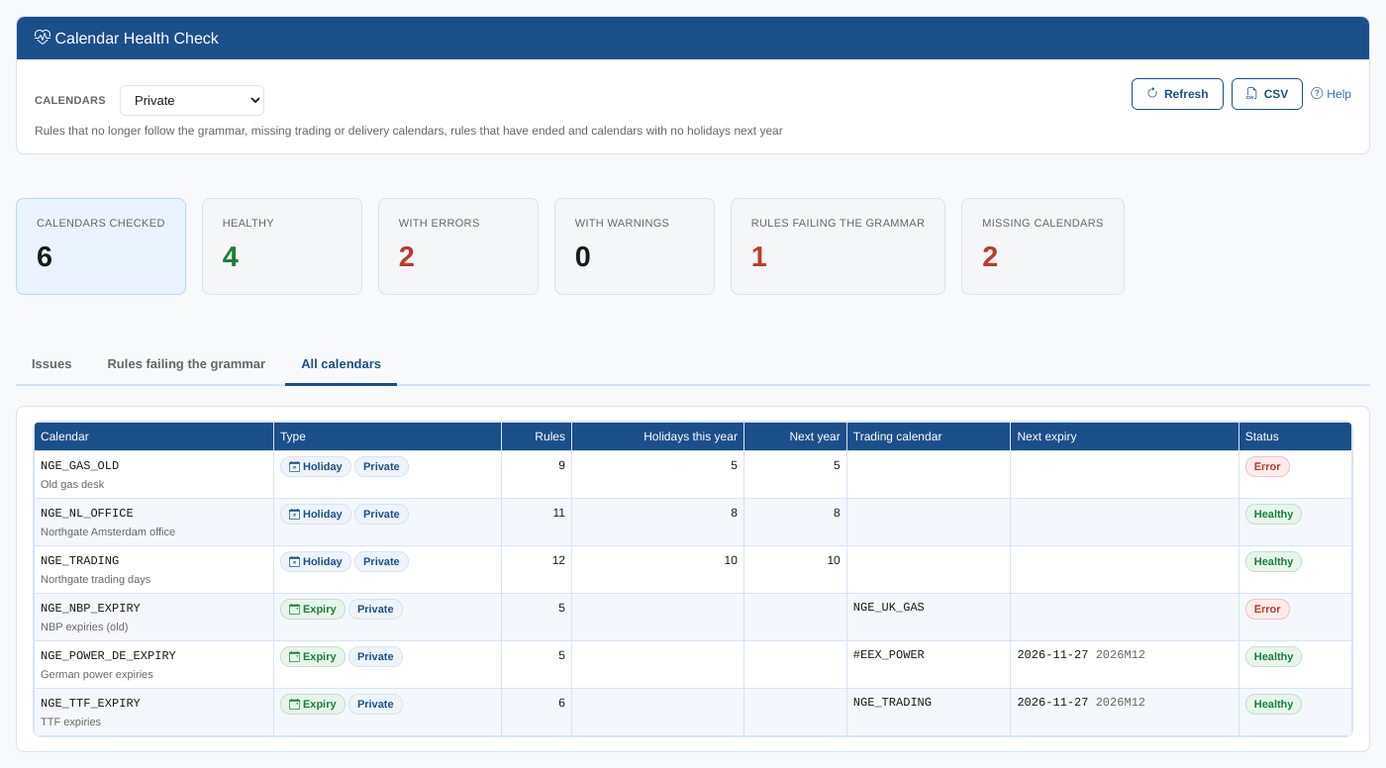
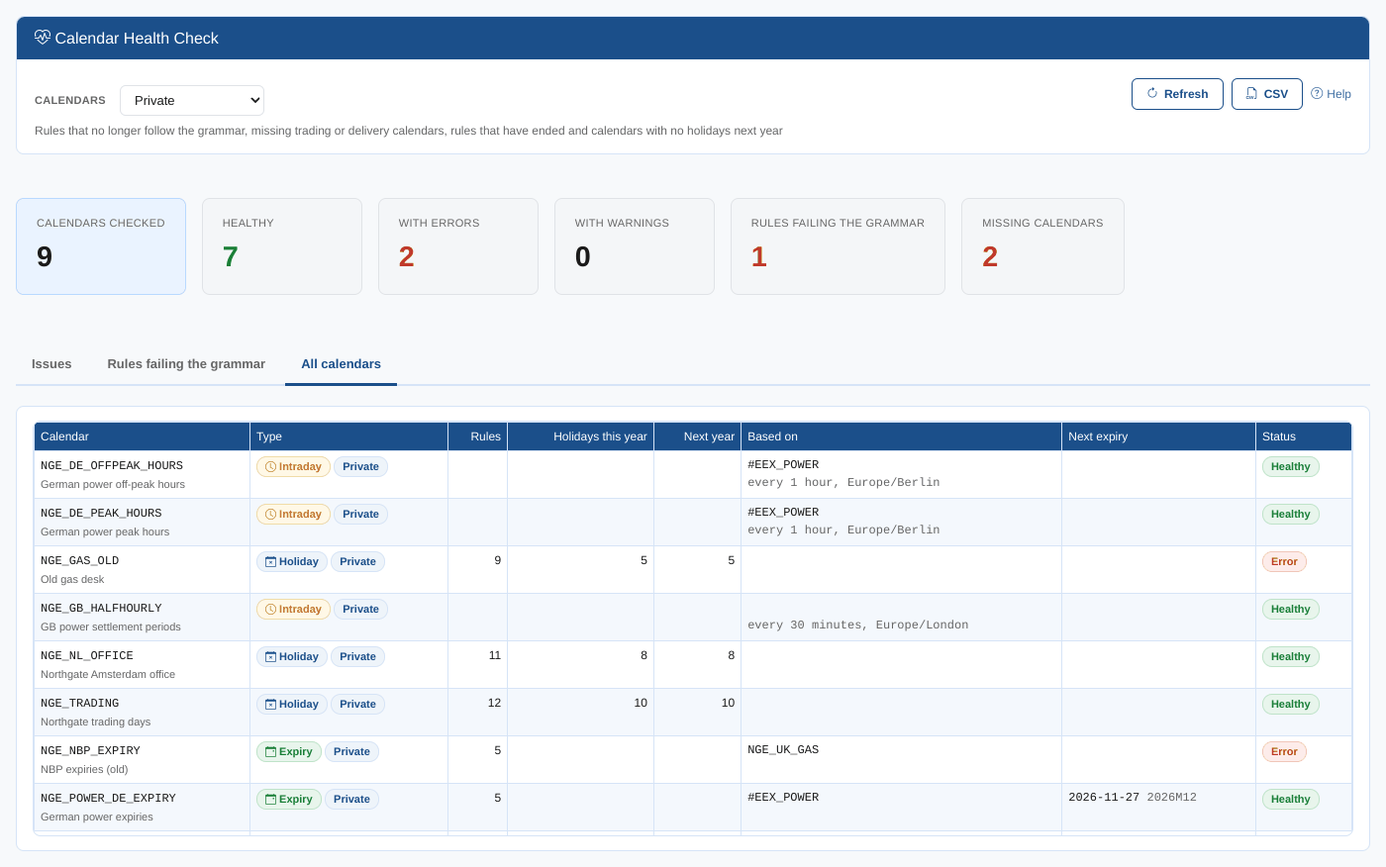
Calendar manager changes

diff --git a/docs/extensions/calendar-manager/07-reference.md b/docs/extensions/calendar-manager/07-reference.md
@@ -14,7 +14,7 @@ tags: [extension, calendar manager, reference, api]
 
 | Kind | Service | Sources | Notes |
 |-|-|-|-|
-| Holiday and other calendars | `calendar` | `private`, `public` | Versioned. A holiday calendar keeps its rules in `calendar.rules`, each with its plain English text in `code`. |
+| Holiday, intraday and other calendars | `calendar` | `private`, `public` | Versioned. A holiday calendar keeps its rules in `calendar.rules`, each with its plain English text in `code`. An intraday calendar keeps its definition in `calendar`. |
 | Expiry calendars | `expiry` | `private`, `public` | Versioned. The rules are in `calendar.rules.map`, by tenor, each with its plain English text in `rule.code`. |
 
 Every save makes a new version: `SERVICE/v1/SOURCE/ID/*` lists the versions and `SERVICE/v1/SOURCE/ID/N` reads version N.
@@ -45,6 +45,42 @@ Every save makes a new version: `SERVICE/v1/SOURCE/ID/*` lists the versions and 
 | `rules` | The rules: a string is a plain English rule; an object is a stored rule (such as an embedded calendar) and is kept as it is |
 
 Every plain English rule must follow the grammar, or nothing is saved and the error names each rule that does not.
+
+### Intraday calendar
+
+`POST calendar/v1/private`
+
+```json
+{
+  "_id": "NGE_DE_PEAK_HOURS",
+  "_type": "VarCalendar",
+  "name": "German power peak hours",
+  "description": "Hours 08:00 to 20:00 on EEX trading days",
+  "calendar": {
+    "_type": "IntradayCalendar",
+    "period": 3600000,
+    "timezoneCode": "Europe/Berlin",
+    "holidayCalendarCode": "#EEX_POWER",
+    "useHolidays": false,
+    "withoutHours": [0, 1, 2, 3, 4, 5, 6, 7, 20, 21, 22, 23]
+  }
+}
+```
+
+| Field | Description |
+|-|-|
+| `calendar._type` | `IntradayCalendar` (`BlockCalendar` and `HourBlockCalendar` are intraday calendars too, and are kept as they are) |
+| `period` | The interval in milliseconds: at least one minute, at most 12 hours, and it must divide a day exactly |
+| `timezoneCode` | The time zone of the hours. Defaults to `UTC`. |
+| `holidayCalendarCode` | Optional. The calendar that decides which days are open. It must exist and must not be an intraday calendar. |
+| `useHolidays` | `false`: days the holiday calendar closes have no intervals. `true`: those days keep every interval (off-peak). |
+| `withoutHours` | The hours of the day (0 to 23, in the time zone) to leave out. At least one hour must be kept. |
+
+The calendar's own `_id` and `_name` are set from the record's `_id` and `name`. A definition that breaks one of these rules is refused with the reason.
+
+:::note
+Until this release, the holiday calendar of a stored intraday calendar was not looked up when the calendar was read, so every day was open whatever `holidayCalendarCode` said. It is now applied. A calendar whose holiday calendar is `DAILY` (every day) does not change; check any other stored intraday calendar with a holiday calendar before the release, because its indexes on weekends and holidays will change.
+:::
 
 ### Expiry calendar
 
@@ -82,6 +118,9 @@ Every plain English rule must follow the grammar, or nothing is saved and the er
 | `POST expiry/v1/private?_function=trace` | An expiry calendar, `ondate`, `contract` | The contract's dates, and the steps of its expiry, delivery start and delivery end rules |
 | `GET calendar/v1/SOURCE?_function=health&_id=A,B` | Calendar ids | A health check per calendar |
 | `GET expiry/v1/SOURCE?_function=health&_id=A,B` | Expiry calendar ids | A health check per expiry calendar |
+| `GET calendar/v1/private?_function=access` (or `expiry`) | | `admin`: the user is an OpenDataDSL user; `publicEdit`: the user can create, change and delete public calendars |
+| `POST calendar/v1/private?_function=test` | A calendar that is not a holiday calendar, as for saving (`_id`, `name`, `calendar`), plus `start` and `end` (days in its time zone; default the next 7 days, at most 92, for an intraday calendar) | `valid`, `problems`, `total`, `days` (one per day: `count`, `first`, `last`, `hours`, `holiday`, `dayHours`), `intervals` (at most 3,000: `local`, `offset`, `utc`) |
+| `GET calendar/v1/SOURCE/ID?_function=test` on a calendar that is not a holiday calendar | `start`, `end` | The same, for the stored calendar |
 
 ### A rule check
 
@@ -102,6 +141,19 @@ Every plain English rule must follow the grammar, or nothing is saved and the er
 | `periodStart`, `expiry`, `deliveryStart`, `deliveryEnd` | The contract's dates |
 | `expiryRule`, `deliveryStartRule`, `deliveryEndRule` | Each with `rule`, `ruleNumber` and `steps`: `step` (the text of the step), `date` (after it) and `note` |
 | `notes` | What is not ruled, or could not be worked out |
+
+---
+
+## Who can change public calendars
+
+Public calendars and expiry calendars are saved with `POST calendar/v1/public` and `POST expiry/v1/public` (the Calendar Manager uses the source that matches the id: `public` for an id starting with `#`), and deleted with `DELETE .../public/ID`. The platform allows it for:
+
+| User | Why |
+|-|-|
+| Users of the OpenDataDSL tenant | The built-in policies `ManagePublic-calendar-Built-In` and `ManagePublic-expiry-Built-In`: create, read, update and delete on the public calendar and expiry services |
+| Users with the admin role | The built-in policy `ManageAllPublicData-Built-In`, which covers every public service |
+
+Everyone else can only read public calendars: a save or delete is refused.
 
 ---
 
@@ -126,5 +178,8 @@ Every plain English rule must follow the grammar, or nothing is saved and the er
 | *This expiry calendar has no rule for ...* | No rule covers that tenor: add a rule with no `for`, or one `for` that tenor. |
 | A rule gives no holidays in the test range | Its `from` and `to` years are outside the range, or another rule gives the same date. |
 | A holiday is marked *on a closed day* | It falls on a weekend. Add an `on Saturday shift` or `on Sunday shift` option if a substitute day is needed. |
-| Save is not shown | The calendar is public, financial or has no rules. Use **Save as copy** for a public calendar. |
-| *Request failed (403)* when saving | Your security policies do not allow you to update calendars. |
+| Save is not shown | The calendar is public, financial, or another calendar with nothing to edit. Use **Save as copy** for a public calendar. |
+| *The interval must divide a day exactly* | An intraday interval such as 7 minutes leaves part of a day over. Choose one from the list. |
+| *... is not a time zone* | Use a time zone name such as `Europe/Paris`, not an abbreviation such as CET. |
+| An intraday calendar has intervals on weekends | It has no holiday calendar, or its holidays setting is **Every interval of the day (off-peak)**. |
+| *Request failed (403)* when saving | Your security policies do not allow you to update calendars, or the calendar is public and you are not an OpenDataDSL user. |

diff --git a/docs/extensions/calendar-manager/04b-intraday.md b/docs/extensions/calendar-manager/04b-intraday.md
@@ -1,0 +1,104 @@
+---
+title: Intraday calendars
+description: How to create, edit and test intraday calendars in the Calendar Manager, with their interval, time zone, the hours they keep and their holiday calendar
+slug: /extensions/calendar-manager/intraday
+sidebar_position: 4.5
+tags: [extension, calendar manager, intraday, hourly, peak, off-peak]
+---
+
+# Intraday calendars
+
+Hourly, half-hourly and quarter-hourly data follows an **intraday calendar**: day-ahead power prices by hour, GB settlement periods, peak and off-peak block hours. An intraday calendar has no rules. It is every interval of the day, in its own time zone, less the hours you leave out, on the days its holiday calendar allows.
+
+At Northgate Energy, Tom Clarke looks after the German power hour calendars: `NGE_DE_PEAK_HOURS` (08:00 to 20:00, Berlin time, on EEX trading days) and `NGE_DE_OFFPEAK_HOURS` (the other hours, and the whole of weekends and EEX holidays).
+
+![The Calendar Manager with the German power peak hours calendar open: its interval, time zone, hours and holiday calendar on the left, and the days of Christmas week on the right](/img/extensions/calendar-manager/intraday-editor.png)
+
+---
+
+## Creating an intraday calendar
+
+Select **New intraday calendar** in the header. A new calendar starts as every hour of every day in UK time. Give it an **ID**, a **Name** and a **Description**, set the fields below and select **Save**.
+
+To open one, click it on the **Calendars** tab: choose **Intraday calendars** in **Type** to list only them.
+
+---
+
+## The definition
+
+![The definition of the peak hours calendar: hourly, Europe/Berlin, the hours 08 to 19 kept, and the EEX power holiday calendar](/img/extensions/calendar-manager/intraday-form.png)
+
+| Field | What it does |
+|-|-|
+| **Interval** | The length of each interval: 1, 5, 10, 15 or 30 minutes, or 1, 2, 3, 4, 6 or 12 hours. It must divide a day exactly. |
+| **Time zone** | The time zone the hours are in, such as `Europe/Berlin` or `Europe/London`. Pick one from the list or type its name. The hours follow the clocks, so a day has 23 or 25 hours when they change. |
+| **Holiday calendar** | Optional. The calendar that decides which days are open, such as `#EEX_POWER` or `#UKBANKHOLIDAYS`. Leave it empty for every day. |
+| **On holidays and closed days** | **No intervals (peak, base)**: the days the holiday calendar closes (weekends and holidays) have no intervals. **Every interval of the day (off-peak)**: those days keep every interval, whatever the hours below. |
+| **Hours kept** | Click an hour to keep it or leave it out. The hours are in the calendar's time zone: `08` is 08:00 to 09:00. The text under the hours says which ones are kept. |
+
+The buttons under the hours set common blocks:
+
+| Button | Hours kept |
+|-|-|
+| **All hours (base)** | 00:00 to 24:00 |
+| **Peak 08-20** | 08:00 to 20:00 |
+| **Off-peak (not 08-20)** | 00:00 to 08:00 and 20:00 to 24:00 |
+| **Off-peak 1 (00-08)** | 00:00 to 08:00 |
+| **Off-peak 2 (20-24)** | 20:00 to 24:00 |
+
+:::tip
+For an off-peak calendar, keep the off-peak hours, set the holiday calendar and choose **Every interval of the day (off-peak)**: weekends and holidays are then off-peak all day, as the market defines them.
+:::
+
+The platform checks the definition when you test and when you save: an interval that does not divide a day, a time zone it does not know, a holiday calendar that does not exist (or is itself intraday) and a calendar with every hour left out are refused, with the reason.
+
+---
+
+## Testing an intraday calendar
+
+The **Test** panel works out the intervals with the definition as it is in the editor, saved or not. **From** and **To** are days in the calendar's time zone, up to 92 days. It starts with the next seven days.
+
+| Card | What it shows |
+|-|-|
+| **Intervals** | Intervals in the range |
+| **Days with intervals** | Days that have at least one interval |
+| **Closed days** | Days the holiday calendar closes. For an off-peak calendar the card is **Whole days (closed days)**: those days are kept whole. |
+| **Clock changes** | Days of 23 or 25 hours in the calendar's time zone |
+
+### Days
+
+One row per day: the number of intervals, when the first starts and when the last ends, with **closed day** (or **closed day: whole day kept**) and **23 hour day** or **25 hour day** marks. In the example, 24 to 27 December and New Year's Eve are closed on `#EEX_POWER`, so the peak calendar has no hours on those days.
+
+![The days of Christmas week for the peak hours calendar: twelve hours on open days, none on closed days](/img/extensions/calendar-manager/intraday-days.png)
+
+### Hours
+
+A grid of the days and the 24 hours of each, in the calendar's time zone: blue for the hours with intervals, purple for a closed day kept whole.
+
+![The hours grid of the peak calendar over Christmas](/img/extensions/calendar-manager/intraday-hours.png)
+
+The off-peak calendar over the same days keeps the night hours on open days, and every hour of the closed days:
+
+![The hours grid of the off-peak calendar, with the closed days kept whole](/img/extensions/calendar-manager/intraday-offpeak-hours.png)
+
+### Intervals
+
+Each interval: its local time, its offset from UTC and the time in UTC, which is how a timeseries on the calendar stores its index. At most 3,000 are listed; **CSV** downloads them.
+
+### Changes
+
+For a saved calendar: the definition against the saved version, line by line, then the days whose intervals change in the test range. At Northgate Energy, Tom tries starting peak at 07:00: the tab shows one more hour on each open day before he decides.
+
+![The Changes tab after keeping hour 07: the definition change, and thirteen hours instead of twelve on each open day](/img/extensions/calendar-manager/intraday-changes.png)
+
+---
+
+## Public intraday calendars
+
+Public intraday calendars, such as `#EPEX_DA_OFFPEAK2_CALENDAR` (the EPEX day-ahead Offpeak-2 block, 20:00 to 24:00 Paris time), can be tested but not changed. Use **Save as copy** to make a private version.
+
+---
+
+## History
+
+**History** compares the definition of any version with the editor, and **Load into the editor** puts it back, as for other calendars. See [Editing rules](/docs/extensions/calendar-manager/editing#history).

diff --git a/docs/extensions/calendar-manager/02-managing.md b/docs/extensions/calendar-manager/02-managing.md
@@ -21,7 +21,7 @@ The tab lists every holiday calendar, expiry calendar and other calendar you can
 | Control | What it does |
 |-|-|
 | **Search** | Shows the calendars whose id, name or description contains the words you type |
-| **Type** | All calendars, holiday calendars, expiry calendars or other calendars (business, daily, monthly...) |
+| **Type** | All calendars, holiday calendars, expiry calendars, intraday calendars or other calendars (business, daily, monthly...) |
 | **Source** | Private and public, private only or public only |
 | **Sort by** | ID, name, or the last changed first |
 | **Export** | Downloads the calendars that match the filters as CSV |
@@ -31,7 +31,7 @@ The tab lists every holiday calendar, expiry calendar and other calendar you can
 
 | Card | What it shows |
 |-|-|
-| **Holiday calendars**, **Expiry calendars**, **Other calendars** | How many of each you can read |
+| **Holiday calendars**, **Expiry calendars**, **Intraday calendars**, **Other calendars** | How many of each you can read |
 | **Private** | Your company's own calendars, which you can change |
 | **Public** | Calendars maintained by OpenDataDSL |
 
@@ -41,10 +41,10 @@ The tab lists every holiday calendar, expiry calendar and other calendar you can
 |-|-|
 | **ID** | The calendar id. Public ids start with `#`. |
 | **Name** | The name, with the description under it |
-| **Type** | **Holiday**, **Expiry**, or the kind of other calendar (Business, Daily...) |
+| **Type** | **Holiday**, **Expiry**, **Intraday**, or the kind of other calendar (Business, Daily...) |
 | **Source** | **Private** or **Public** |
 | **Rules** | How many rules an expiry calendar has (the calendar lists do not include the rules of holiday calendars: open one to see them) |
-| **Trading calendar** | For an expiry calendar, the calendar its rules move on, and the delivery calendar when it is different |
+| **Based on** | For an expiry calendar, the calendar its rules move on, and the delivery calendar when it is different. For an intraday calendar, its holiday calendar, interval and time zone. |
 | **Last changed** | When the current version was saved, and by whom |
 | **Version** | The current version number |
 
@@ -59,20 +59,22 @@ When you open a calendar, the editor shows its rules, checks each one against th
 | Calendar | What you can do |
 |-|-|
 | A private holiday or expiry calendar | Edit, test, save, save as a copy, delete, history |
-| A public calendar | Test, save as a copy, history. A note explains it is maintained by OpenDataDSL. |
+| A public calendar | Test, save as a copy, history. A note explains it is maintained by OpenDataDSL. OpenDataDSL users can also edit, save and delete it: see [Public calendars](#public-calendars). |
 | A financial (FX) expiry calendar | Test only: it is defined by cross and base calendars, not rules |
+| A private intraday calendar | Edit its interval, time zone, hours and holiday calendar, test, save, save as a copy, delete, history. See [Intraday calendars](/docs/extensions/calendar-manager/intraday). |
 | Another calendar (business, daily...) | See its dates and definition |
 
 ---
 
 ## Creating a calendar
 
-Select **New holiday calendar** or **New expiry calendar** in the header.
+Select **New holiday calendar**, **New expiry calendar** or **New intraday calendar** in the header.
 
 - A new holiday calendar starts with `Every Saturday` and `Every Sunday`.
 - A new expiry calendar starts with a common month rule: `go to the end of the previous month then go back 1 days using calendar`. Choose its **Trading calendar** before you test it.
+- A new intraday calendar starts as every hour of every day in UK time.
 
-Give it an **ID** (letters, digits, dots, underscores and dashes; no spaces and no `#`, which is for public calendars), a **Name** and a **Description**, write the rules and select **Save**. See [Editing rules](/docs/extensions/calendar-manager/editing).
+Give it an **ID** (letters, digits, dots, underscores and dashes; no spaces and no `#`, which is for public calendars and only OpenDataDSL users can use), a **Name** and a **Description**, write the rules and select **Save**. See [Editing rules](/docs/extensions/calendar-manager/editing).
 
 At Northgate Energy, Priya creates `NGE_TRADING` with the weekend rules, the UK bank holidays and two office closures:
 
@@ -98,6 +100,22 @@ Last Monday in August named 'Summer Bank Holiday'
 Select **Save as copy** in the editor, or the copy button in the list. The copy is a new, unsaved private calendar with the same rules, an id ending in `_COPY` and the name followed by `(copy)`. Change the id if you want, then select **Save**.
 
 This is how you change a public calendar: copy it, change the copy, and point your timeseries, curves or expiry calendars at the copy.
+
+---
+
+## Public calendars
+
+Public calendars are maintained by OpenDataDSL. Users of the OpenDataDSL tenant (and users with the platform's admin role, who manage all public data) can change them in the Calendar Manager like a private calendar: edit, test, **Save**, **Delete** and **History** all work, in the public calendars. For everyone else a public calendar is read only.
+
+A note at the top of the editor warns that every tenant uses the calendar, so a save applies to every timeseries, curve and expiry calendar on it, in every tenant. **Save** and **Delete** ask you to confirm for a public calendar.
+
+![The UK bank holiday calendar open for an OpenDataDSL user, with the warning that every tenant uses it](/img/extensions/calendar-manager/public-edit.png)
+
+To create a public calendar, start a new calendar and give it an id that starts with `#`, such as `#EPEX_DA_PEAK_HOURS`: the title shows **Public** and the calendar is saved in the public calendars. An id cannot move between private and public once saved; copy the calendar instead.
+
+:::caution
+Test a change to a public calendar before you save it. The **Changes** tab shows exactly which dates or contracts move, and the [Calendar Usage Report](/docs/public/insights/calendar-usage) shows what uses the calendar.
+:::
 
 ---
 

diff --git a/docs/extensions/calendar-manager/01-overview.md b/docs/extensions/calendar-manager/01-overview.md
@@ -31,9 +31,10 @@ Throughout these pages we follow Northgate Energy, a fictional gas and power tra
 |-|-|
 | **Holiday calendar** | A daily calendar with holiday rules. Each rule gives one holiday a year (such as Christmas Day) or a weekly closure (every Saturday). Its business days are the days no rule closes. |
 | **Expiry calendar** | Rules that work out, for each contract (a month, quarter, season, year, week or day), its expiry (the last trading day) and optionally when its delivery starts and ends. Its rules move on a **trading calendar**, and its delivery rules on a **delivery calendar**. |
+| **Intraday calendar** | Hourly, half-hourly or quarter-hourly intervals in a time zone, with the hours of the day it keeps (such as peak, 08:00 to 20:00) and an optional holiday calendar for the days it is open. It has no rules. |
 | **Other calendars** | Business, daily, monthly and other calendars with no rules. The Calendar Manager lists them and shows their dates, but there is nothing to edit. |
 | **Rule** | One line of plain English. The platform reads it with a grammar (an ANTLR 4 grammar for holiday rules and one for expiry rules). A rule that does not follow the grammar is marked in red, where the mistake is. |
-| **Private and public calendars** | Private calendars belong to your company and you can change them. Public calendars, whose ids start with `#`, are maintained by OpenDataDSL: you can test them and copy them, but not change them. |
+| **Private and public calendars** | Private calendars belong to your company and you can change them. Public calendars, whose ids start with `#`, are maintained by OpenDataDSL and used by every tenant: you can test them and copy them. Only OpenDataDSL users can change them. |
 | **Test** | Working out the dates a calendar gives, with your unsaved changes, before you save: holidays and business days, or expiries and delivery periods. |
 | **Version** | Each save makes a new version of the calendar, with who saved it and when. |
 
@@ -44,7 +45,7 @@ Throughout these pages we follow Northgate Energy, a fictional gas and power tra
 | Screen | Where | What it does |
 |-|-|-|
 | **Calendars** tab | **Manage**, **Calendars** | Every calendar you can read, private and public, with filters, counts and CSV export |
-| **Editor** tab | Same screen, with a calendar open | The rules, checked as you type, with suggestions, the rule builder and edit as text; save, save as a copy, delete and history |
+| **Editor** tab | Same screen, with a calendar open | The rules, checked as you type, with suggestions, the rule builder and edit as text (or, for an intraday calendar, its interval, time zone, hours and holiday calendar); save, save as a copy, delete and history |
 | **Test** panel | Next to the rules | Holidays, a year view, business days, date checks and changes for a holiday calendar; expiries, a year view, a step by step trace and changes for an expiry calendar |
 | **Syntax guide** tab | Same screen | The rule syntax with examples you can add to the calendar, and the grammars themselves |
 | **Insights** tab | Same screen | Calendar Health Check, Holiday Calendar Comparison, Business Days by Month and Calendar Changes |
@@ -52,7 +53,7 @@ Throughout these pages we follow Northgate Energy, a fictional gas and power tra
 Every tab has a **Help for this tab** link that opens the matching page of this guide.
 
 :::note
-Saving a calendar needs the **update** action on the calendar or expiry calendar service in your security policies. Without it you can still open and test calendars.
+Saving a calendar needs the **update** action on the calendar or expiry calendar service in your security policies. Without it you can still open and test calendars. Public calendars can only be changed by OpenDataDSL users.
 :::
 
 ---
@@ -62,6 +63,7 @@ Saving a calendar needs the **update** action on the calendar or expiry calendar
 - [Managing calendars](/docs/extensions/calendar-manager/managing): the Calendars tab, opening, creating, copying and deleting
 - [Editing rules](/docs/extensions/calendar-manager/editing): checking rules as you type, suggestions, the rule builder, saving and history
 - [Testing a calendar](/docs/extensions/calendar-manager/testing): every view of the Test panel, including the step by step trace
+- [Intraday calendars](/docs/extensions/calendar-manager/intraday): hourly and sub-hourly calendars, peak and off-peak hours, and testing them
 - [Rule syntax](/docs/extensions/calendar-manager/rule-syntax): every kind of holiday and expiry rule, with examples
 - [Insights](/docs/extensions/calendar-manager/insights): the calendar insight reports
 - [Reference](/docs/extensions/calendar-manager/reference): the platform functions, the extension contents and troubleshooting

diff --git a/docs/public/insights/calendar-health.md b/docs/public/insights/calendar-health.md
@@ -1,6 +1,6 @@
 ---
 title: Calendar Health Check
-description: An insight report of the Calendar Manager that checks every holiday and expiry calendar for rules that no longer follow the grammar, missing calendars, ended rules and missing holidays
+description: An insight report of the Calendar Manager that checks every holiday, expiry and intraday calendar for rules that no longer follow the grammar, missing calendars, ended rules and missing holidays
 slug: /public/insights/calendar-health
 catalog_summary: Holiday and expiry calendars with broken rules, missing trading calendars or no holidays next year
 tags: [insight, report, calendars, holidays, expiry, calendar manager]
@@ -8,12 +8,13 @@ tags: [insight, report, calendars, holidays, expiry, calendar manager]
 
 # Calendar Health Check
 
-Calendars are set up once and then trusted for years. Meanwhile a market adds a holiday, a rule written with a typo was stored half understood, or an expiry calendar still points at a trading calendar that was renamed. **The Calendar Health Check** checks every holiday and expiry calendar at once and answers questions like:
+Calendars are set up once and then trusted for years. Meanwhile a market adds a holiday, a rule written with a typo was stored half understood, or an expiry calendar still points at a trading calendar that was renamed. **The Calendar Health Check** checks every holiday, expiry and intraday calendar at once and answers questions like:
 
 - Do all our calendar rules still follow the rule grammar?
 - Does every expiry calendar's trading and delivery calendar exist?
 - Which holiday calendars have no holidays next year, because their rules have ended?
 - When is the next expiry of each expiry calendar?
+- Does every intraday calendar have a valid interval, time zone and holiday calendar?
 
 At Northgate Energy, Priya Shah runs the check every December, before the new year's curves are built on `NGE_TRADING` and `NGE_TTF_EXPIRY`. It finds two problems: the old gas desk calendar `NGE_GAS_OLD` has a rule with stray words that was stored half understood, and the old NBP expiry calendar points at a trading calendar that no longer exists.
 
@@ -80,6 +81,7 @@ One row per issue, errors first.
 | The calendar could not be read | Error |
 | The next expiry could not be worked out | Error |
 | The calendar (or expiry calendar) has no rules | Warning |
+| An intraday calendar's interval does not divide a day, its time zone is unknown, its holiday calendar is missing or intraday, or every hour is left out | Error |
 | No holidays next year: the rules may have ended | Warning |
 | Fewer holidays next year than this year | Note |
 | N rules end this year or earlier | Note |
@@ -92,7 +94,7 @@ Each stored rule that does not follow the grammar: the calendar, the rule number
 
 ### All calendars
 
-Every calendar checked: its type, number of rules, holidays this year and next year (holiday calendars), its trading calendar and next expiry (expiry calendars), and its status.
+Every calendar checked: its type, number of rules, holidays this year and next year (holiday calendars), its trading calendar and next expiry (expiry calendars), its holiday calendar, interval and time zone (intraday calendars), and its status.
 
 ![Every private calendar checked, with its holidays, next expiry and status](/img/insights/calendar-health/all-calendars.png)
 

diff --git a/docs/public/insights/calendar-changes.md b/docs/public/insights/calendar-changes.md
@@ -40,7 +40,7 @@ It opens with your private calendars changed in the last 90 days.
 |-|-|
 | **Calendars changed** | Calendars and expiry calendars whose current version was saved in the period |
 | **New calendars** | Those still on their first version |
-| **Holiday calendars**, **Expiry calendars** | How many of each changed |
+| **Holiday calendars**, **Expiry calendars**, **Intraday calendars** | How many of each changed |
 | **Changed by** | How many people saved them |
 
 ---
@@ -49,7 +49,7 @@ It opens with your private calendars changed in the last 90 days.
 
 One row per calendar, the most recent change first: when it was saved, the calendar, its type, its version (with **new** for a first version) and who saved it.
 
-Click a row to see what changed against the version before: the rules line by line (lines removed in red, added in green), and any change of name or, for an expiry calendar, of trading or delivery calendar. For a first version, its rules are listed. Click the row again to close it.
+Click a row to see what changed against the version before: the rules line by line (lines removed in red, added in green), or for an intraday calendar its definition (interval, time zone, hours, holiday calendar), and any change of name or, for an expiry calendar, of trading or delivery calendar. For a first version, its rules are listed. Click the row again to close it.
 
 ![The change to NGE_TTF_EXPIRY: one rule added for weekend contracts](/img/insights/calendar-changes/detail.png)
 

diff --git a/docs/extensions/calendar-manager/03-editing.md b/docs/extensions/calendar-manager/03-editing.md
@@ -127,7 +127,9 @@ To count business days, the builder writes *days* in the plural with *using cale
 
 Select **Save**. The Calendar Manager checks the rules first: if any rule does not follow the grammar, nothing is saved and the rules in red need fixing. The platform checks them again when it saves, so a calendar with a broken rule can no longer be stored.
 
-Each save makes a new version. The title shows the version number. When you save a new calendar with the id of a private calendar that already exists, you are asked whether to save over it as a new version.
+Each save makes a new version. The title shows the version number. When you save a new calendar with the id of a calendar that already exists, you are asked whether to save over it as a new version.
+
+OpenDataDSL users can also save public calendars; you are asked to confirm, because every tenant uses them. See [Public calendars](/docs/extensions/calendar-manager/managing#public-calendars).
 
 :::note
 A combined holiday calendar is saved as a holiday calendar with the same rules. The platform keeps the rules of an expiry calendar grouped by tenor, so after saving they are shown in that order: balance, days, weekends, weeks, months, quarters, seasons, half years and years, then the rules for every tenor.

diff --git a/docs/extensions/calendar-manager/04-testing.md b/docs/extensions/calendar-manager/04-testing.md
@@ -8,6 +8,8 @@ tags: [extension, calendar manager, test, holidays, expiry, delivery]
 
 # Testing a calendar
 
+This page covers holiday and expiry calendars. For hourly and sub-hourly calendars, see [Intraday calendars](/docs/extensions/calendar-manager/intraday#testing-an-intraday-calendar).
+
 The **Test** panel works out the dates the calendar gives, with the rules as they are in the editor, saved or not. It runs when you open a calendar, when you change the test settings, and a moment after you stop typing a rule. Select **Test** in the header or **Run** in the panel to run it now. The time of the last run is shown at the top, with *(with your changes)* when the editor has unsaved changes.
 
 :::note
